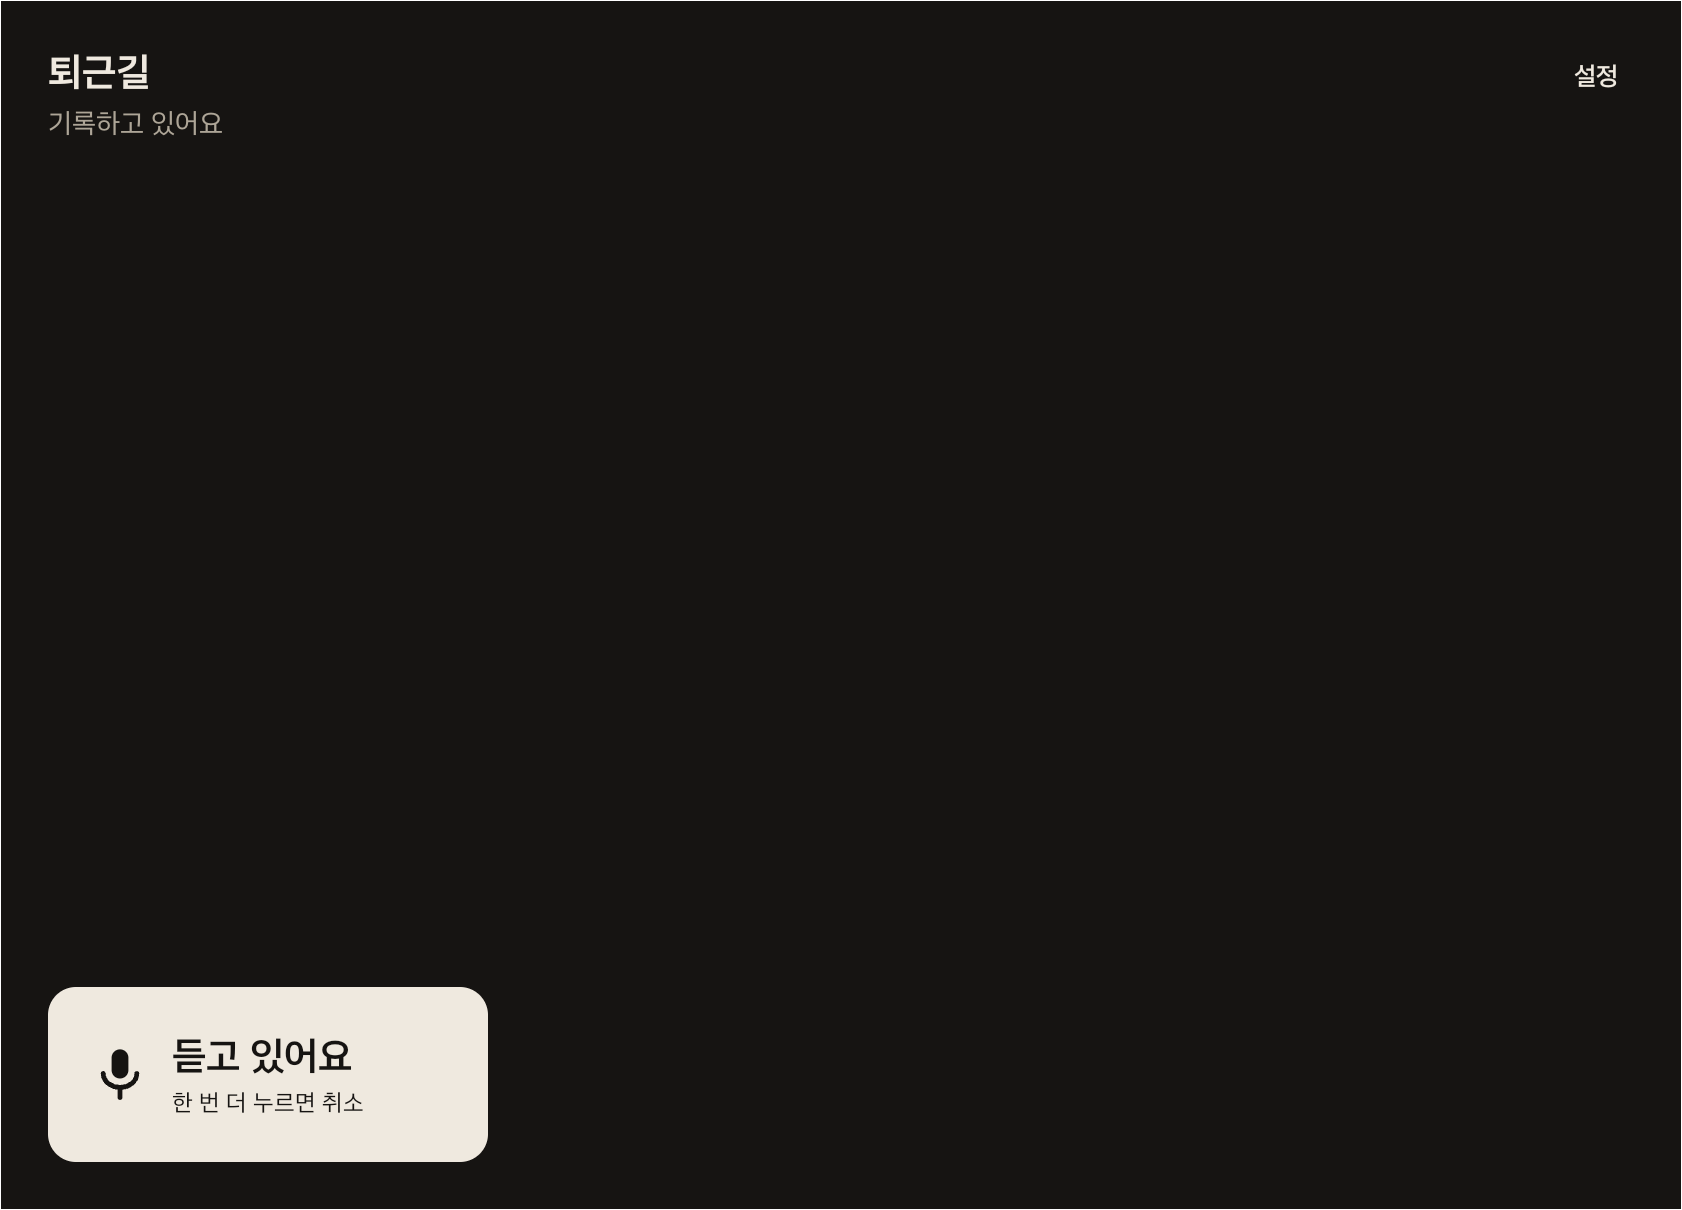
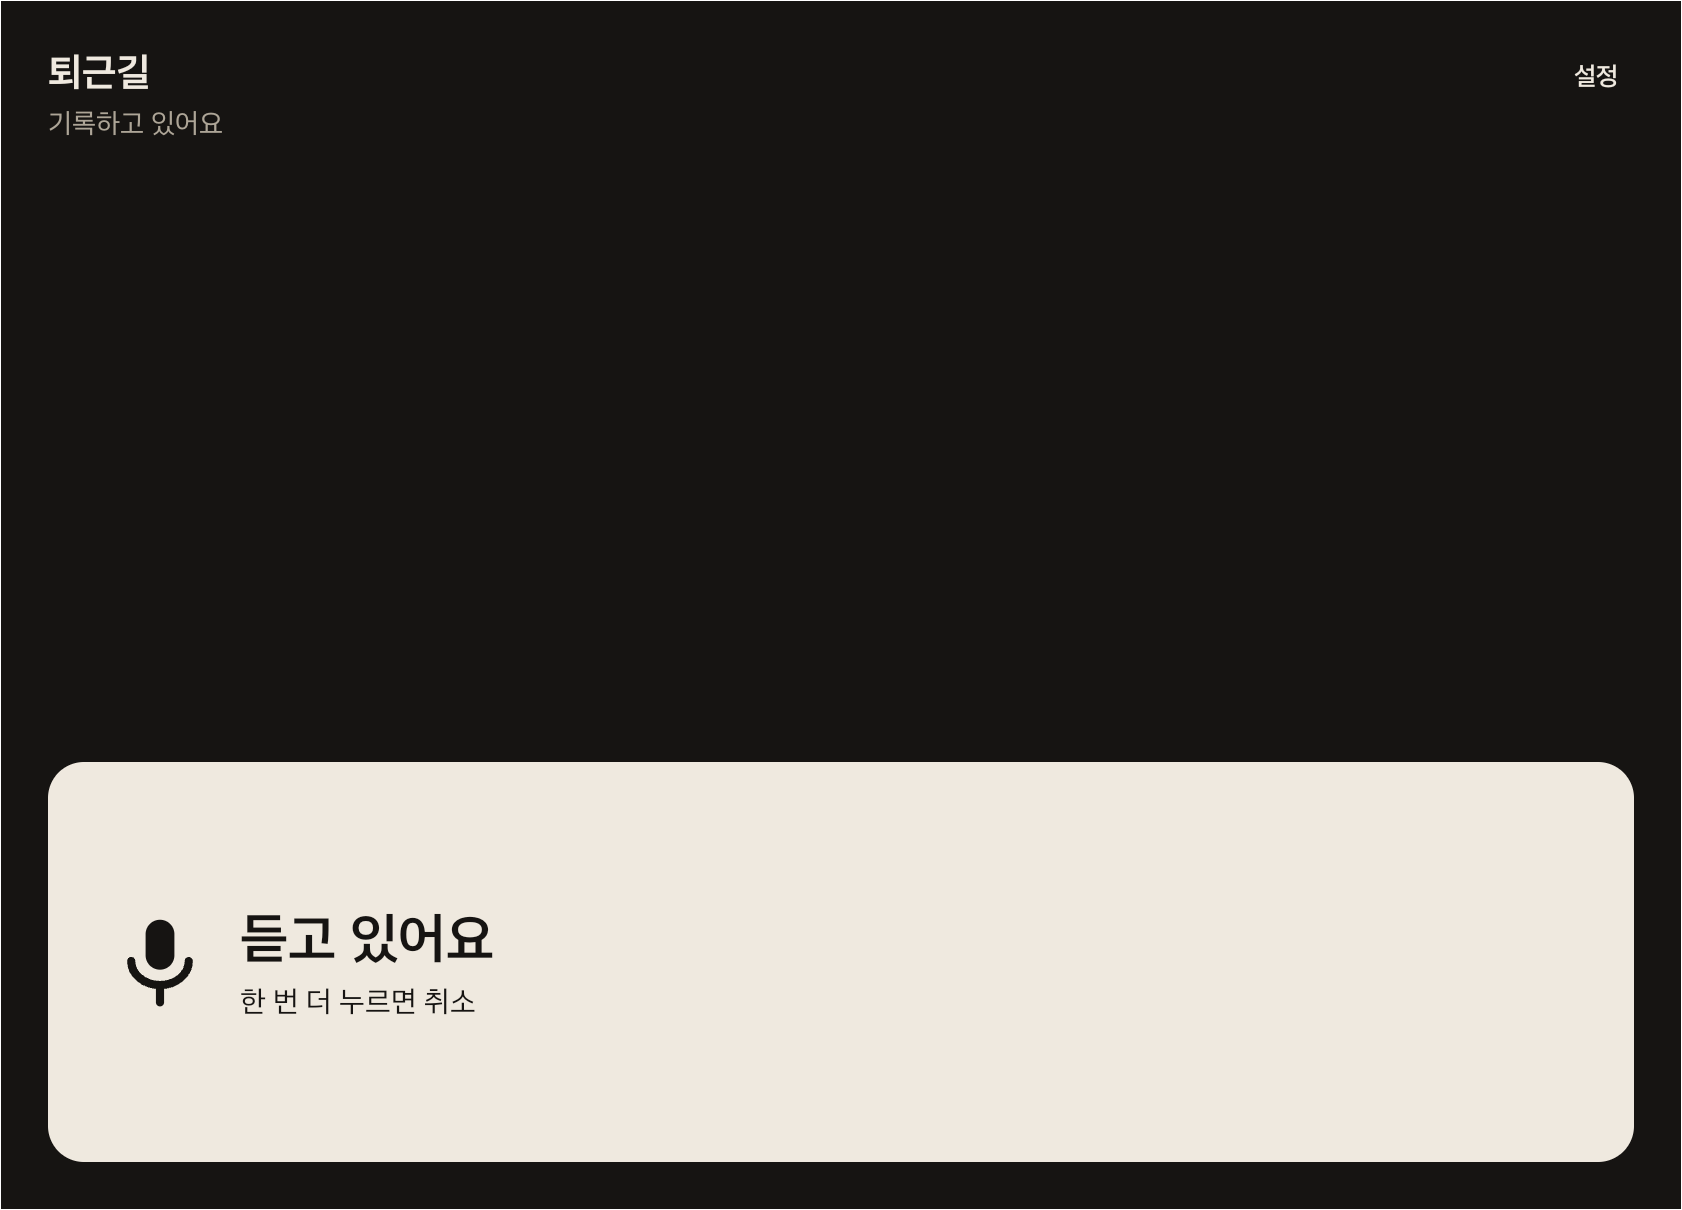
S0 말하기 버튼을 창 폭 전체 아래 띠(높이 창의 1/3, 120~400dp)로 키운다 — 주행 중 유일한 조작(PRD §5 하단 대형 버튼). 글자 Headline M 56·마이크 96dp, 운전석 쪽(왼쪽) 정렬. 기본은 무채색 면+테두리, 듣는 중이 가장 밝다. s0 캡처 갱신

Changed region(s): [[0.0309, 0.6116, 0.9893, 0.9785], [0.0618, 0.8562, 0.2164, 0.9174]]

diff --git a/app/src/main/java/ai/pleos/hello/ui/S0DriveView.kt b/app/src/main/java/ai/pleos/hello/ui/S0DriveView.kt
@@ -9,15 +9,16 @@ import android.widget.LinearLayout
 /**
  * S0 주행 화면(PRD §5, 시안 r2 A). 실시간 데이터 바인딩 없음 — 제목은 세션 시작 때 정해진 구간 이름이고
  * 버튼만 두 상태다. 기본은 낮은 면 + 테두리(차분), 듣는 중은 밝은 잉크로 채워 가장 눈에 띄게 한다.
- * 주행 중이므로 아무것도 움직이지 않는다(눌림 축소 없음, 색·문구만 바뀜). 말하기 버튼 크기는 [LayoutMode] 를 따른다.
+ * 주행 중이므로 아무것도 움직이지 않는다(눌림 축소 없음, 색·문구만 바뀜). 말하기 버튼은 창 폭 전체의 아래 띠이고
+ * 높이는 창의 3분의 1이다([LayoutMode]). 아이콘·글자는 운전석 쪽(왼쪽)에 둔다.
  */
 class S0DriveView(context: Context, private val onTalk: () -> Unit, onSettings: () -> Unit = {}) : FrameLayout(context) {
 
     private val segment = context.txt(Tok.TITLE_L, Tok.FG, 700, s = "기록 중")
     private val button = LinearLayout(context)
     private val glyph = MicGlyph(context)
-    private val label = context.txt(Tok.TITLE_L, Tok.FG, 700)
-    private val hint = context.txt(Tok.LABEL_M, Tok.ON_PRIMARY, s = "한 번 더 누르면 취소")
+    private val label = context.txt(Tok.HEAD_M, Tok.FG, 700)
+    private val hint = context.txt(Tok.BODY_L, Tok.ON_PRIMARY, s = "한 번 더 누르면 취소")
     private val settings = context.button("설정", BtnKind.TEXT, padH = 28, scale = false) { onSettings() }
     private var listening: Boolean? = null
     private var shortButton = false
@@ -33,14 +34,15 @@ class S0DriveView(context: Context, private val onTalk: () -> Unit, onSettings: 
         button.apply {
             orientation = LinearLayout.HORIZONTAL
             gravity = Gravity.CENTER_VERTICAL
-            addView(glyph)
+            setPadding(context.dp(64), 0, context.dp(48), 0)
+            addView(glyph, LinearLayout.LayoutParams(context.dp(96), context.dp(96)).apply { rightMargin = context.dp(32) })
             addView(context.col().apply {
                 addView(label)
-                addView(hint, lp().m(t = context.dp(8)))
+                addView(hint, lp().m(t = context.dp(12)))
             }, lp(0, LayoutParams.WRAP_CONTENT, 1f))
             setOnClickListener { onTalk() }
         }
-        addView(button, LayoutParams(context.dp(440), context.dp(176), Gravity.BOTTOM or Gravity.START).apply { setMargins(e, 0, 0, e) })
+        addView(button, LayoutParams(context.dp(1586), context.dp(400), Gravity.BOTTOM or Gravity.START).apply { setMargins(e, 0, 0, e) })
         settings.visibility = GONE
         addView(settings, LayoutParams(LayoutParams.WRAP_CONTENT, LayoutParams.WRAP_CONTENT, Gravity.TOP or Gravity.END).apply { setMargins(0, e - context.dp(16), e - context.dp(12), 0) })
         setListening(false)
@@ -55,17 +57,11 @@ class S0DriveView(context: Context, private val onTalk: () -> Unit, onSettings: 
         val d = resources.displayMetrics.density
         val wDp = (MeasureSpec.getSize(widthMeasureSpec) / d).toInt()
         val hDp = (MeasureSpec.getSize(heightMeasureSpec) / d).toInt()
-        val bw = LayoutMode.s0ButtonWidthDp(wDp)
-        button.layoutParams.width = context.dp(bw)
+        button.layoutParams.width = context.dp(LayoutMode.s0ButtonWidthDp(wDp))
         val bh = LayoutMode.s0ButtonHeightDp(hDp)
         button.layoutParams.height = context.dp(bh)
-        shortButton = bh < 110 // 낮은 창에서는 "한 번 더 누르면 취소" 가 잘리므로 뺀다
+        shortButton = bh < 180 // 낮은 창에서는 "한 번 더 누르면 취소" 가 잘리므로 뺀다
         hint.visibility = if (listening == true && !shortButton) VISIBLE else GONE
-        // 좁은 창(버튼 336dp)에서는 "듣고 있어요"가 한 줄에 들어가도록 안쪽 여백과 아이콘을 줄인다
-        val compact = bw < 400
-        button.setPadding(context.dp(if (compact) 28 else 44), 0, context.dp(if (compact) 24 else 40), 0)
-        val g = context.dp(if (compact) 48 else 56)
-        glyph.layoutParams = LinearLayout.LayoutParams(g, g).apply { rightMargin = context.dp(if (compact) 16 else 24) }
         super.onMeasure(widthMeasureSpec, heightMeasureSpec)
     }
 
@@ -78,7 +74,7 @@ class S0DriveView(context: Context, private val onTalk: () -> Unit, onSettings: 
         if (this.listening == listening) return
         this.listening = listening
         val ink = if (listening) Tok.ON_PRIMARY else Tok.FG
-        val r = context.dpf(28f)
+        val r = context.dpf(36f)
         button.background = if (listening) shape(Tok.PRIMARY, r) else shape(Tok.RAISED, r, context.dp(2), Tok.RING)
         glyph.ink = ink
         label.setTextColor(ink)

diff --git a/app/src/main/java/ai/pleos/hello/core/LayoutMode.kt b/app/src/main/java/ai/pleos/hello/core/LayoutMode.kt
@@ -9,16 +9,19 @@ enum class LayoutMode {
 
     companion object {
         const val WIDE_MIN_DP = 1200
-        private const val S0_BUTTON_MAX_WIDTH_DP = 440
-        private const val S0_BUTTON_MAX_HEIGHT_DP = 176
-        private const val S0_BUTTON_MIN_HEIGHT_DP = 80
+        private const val S0_EDGE_DP = 48
+        private const val S0_BUTTON_MAX_HEIGHT_DP = 400
+        private const val S0_BUTTON_MIN_HEIGHT_DP = 120
 
         fun from(widthDp: Int) = if (widthDp >= WIDE_MIN_DP) WIDE else NARROW
 
-        /** S0 "말하기" 버튼 폭: 창 폭의 40%, 최대 440dp. */
-        fun s0ButtonWidthDp(widthDp: Int) = minOf(S0_BUTTON_MAX_WIDTH_DP, widthDp * 2 / 5)
+        /**
+         * S0 "말하기" 버튼 폭: 창 폭 전체를 쓰는 아래 띠(양옆 여백만 뺀다). 주행 중 유일한 조작이라 어디를 눌러도 맞게 한다(PRD §5 "하단 대형 버튼 1개").
+         * 글자·아이콘은 운전석 쪽(왼쪽)에 둔다 — 좌핸들에서 앱 창의 왼쪽 끝이 운전석에서 가장 가깝다.
+         */
+        fun s0ButtonWidthDp(widthDp: Int) = widthDp - 2 * S0_EDGE_DP
 
-        /** S0 버튼 높이: 창 높이의 약 14.5%를 80~176dp 로 자른다(1210dp 에서 176dp). */
-        fun s0ButtonHeightDp(heightDp: Int) = (heightDp * 29 / 200).coerceIn(S0_BUTTON_MIN_HEIGHT_DP, S0_BUTTON_MAX_HEIGHT_DP)
+        /** S0 버튼 높이: 창 높이의 3분의 1을 120~400dp 로 자른다(1210dp 에서 400dp). */
+        fun s0ButtonHeightDp(heightDp: Int) = (heightDp / 3).coerceIn(S0_BUTTON_MIN_HEIGHT_DP, S0_BUTTON_MAX_HEIGHT_DP)
     }
 }

diff --git a/app/src/test/java/ai/pleos/hello/core/LayoutModeTest.kt b/app/src/test/java/ai/pleos/hello/core/LayoutModeTest.kt
@@ -10,14 +10,14 @@ class LayoutModeTest {
         assertEquals(LayoutMode.NARROW, LayoutMode.from(1199))
     }
     @Test fun `분할 창 841dp 는 NARROW`() = assertEquals(LayoutMode.NARROW, LayoutMode.from(841))
-    @Test fun `S0 버튼 폭은 40퍼센트이고 440dp 를 넘지 않는다`() {
-        assertEquals(440, LayoutMode.s0ButtonWidthDp(1682))
-        assertEquals(336, LayoutMode.s0ButtonWidthDp(840))
-        assertEquals(440, LayoutMode.s0ButtonWidthDp(1100))
+    @Test fun `S0 버튼은 창 폭 전체 띠 - 양옆 여백 48dp`() {
+        assertEquals(1586, LayoutMode.s0ButtonWidthDp(1682))
+        assertEquals(744, LayoutMode.s0ButtonWidthDp(840))
     }
-    @Test fun `S0 버튼 높이는 80에서 176 사이`() {
-        assertEquals(175, LayoutMode.s0ButtonHeightDp(1210))
-        assertEquals(176, LayoutMode.s0ButtonHeightDp(2000))
-        assertEquals(80, LayoutMode.s0ButtonHeightDp(300))
+    @Test fun `S0 버튼 높이는 창 높이의 3분의 1 - 120에서 400 사이`() {
+        assertEquals(400, LayoutMode.s0ButtonHeightDp(1210)) // 403 → 상한
+        assertEquals(300, LayoutMode.s0ButtonHeightDp(900))
+        assertEquals(400, LayoutMode.s0ButtonHeightDp(2000))
+        assertEquals(120, LayoutMode.s0ButtonHeightDp(300))
     }
 }

diff --git a/app/src/main/java/ai/pleos/hello/ui/PleoryUi.kt b/app/src/main/java/ai/pleos/hello/ui/PleoryUi.kt
@@ -44,6 +44,7 @@ internal object Tok {
     val UP = Color.parseColor("#56BDD6")         // 8.4:1
 
     // 글자 (sp, 줄 높이 dp)
+    val HEAD_M = 56f to 72      // S0 말하기(주행 중 유일한 글자 조작)
     val HEAD_S = 48f to 64
     val TITLE_L = 40f to 52
     val BODY_L = 30f to 38

diff --git a/prototypes/2026-11-08-pleory-card/rounds/r2/round.md b/prototypes/2026-11-08-pleory-card/rounds/r2/round.md
@@ -116,3 +116,5 @@ stars:
 - 설정의 삭제 확인에서, 넓은 창은 "취소"가 첫 탭 자리(행 끝)에 온다. 두 번 연달아 눌러도 지워지지 않는다(리뷰 지적).
 - 제목 쉼표("퇴근길, 51분")는 넣지 않았다. 제목은 CardFormat.title 그대로다.
 - 항목 "⋯"은 지우기만 한다(소프트 삭제, 원문 보존). 같은 자리에 "지우기 / 취소"가 펼쳐지고, 취소가 ⋯ 자리에 온다. 고치기(편집)는 P1이라 없다. 캡처: `promoted/s1-item-delete-confirm.png`, `s1-item-deleted.png`, `s1-utterance-all-items-deleted.png`, `s1-confirm-then-gear-d.png`(기어 D → S0, 지우기 없음), `s1-after-delete-all.png`.
+- S0 말하기 버튼을 창 폭 전체의 아래 띠로 키웠다. 높이는 창의 3분의 1(120~400dp)로, 1682×1210 창에서 1586×400, 840 창에서 744×400이다. 전에는 440×176으로 구석에 작게 있었다. 주행 중 유일한 조작이다(PRD §5 "하단 대형 버튼 1개"). 글자는 Headline M 56, 마이크는 96dp다. 아이콘과 글자는 운전석 쪽(왼쪽)에 둔다. Pleos 가이드 문서에는 손 닿는 쪽 규정이 없어서, 좌핸들 기준 앱 창 왼쪽 끝이 운전석에서 가장 가깝다는 점을 근거로 했다. 캡처: `promoted/s0-*.png`.
+- 19:08 항목 장소가 "올림픽대로"로 나오는 것은 회귀가 아니다. 데모 fixture(README 장소 라벨 표, 반경 1.5km 최근접)가 run-demo 경로의 그 시각 위치를 올림픽대로 기준점에 맞춘 결과다. 승격 전 캡처(14:44)에도 "19:07 · 올림픽대로"로 나와 있다. 시안은 손으로 넣은 "한강대교"였다.
